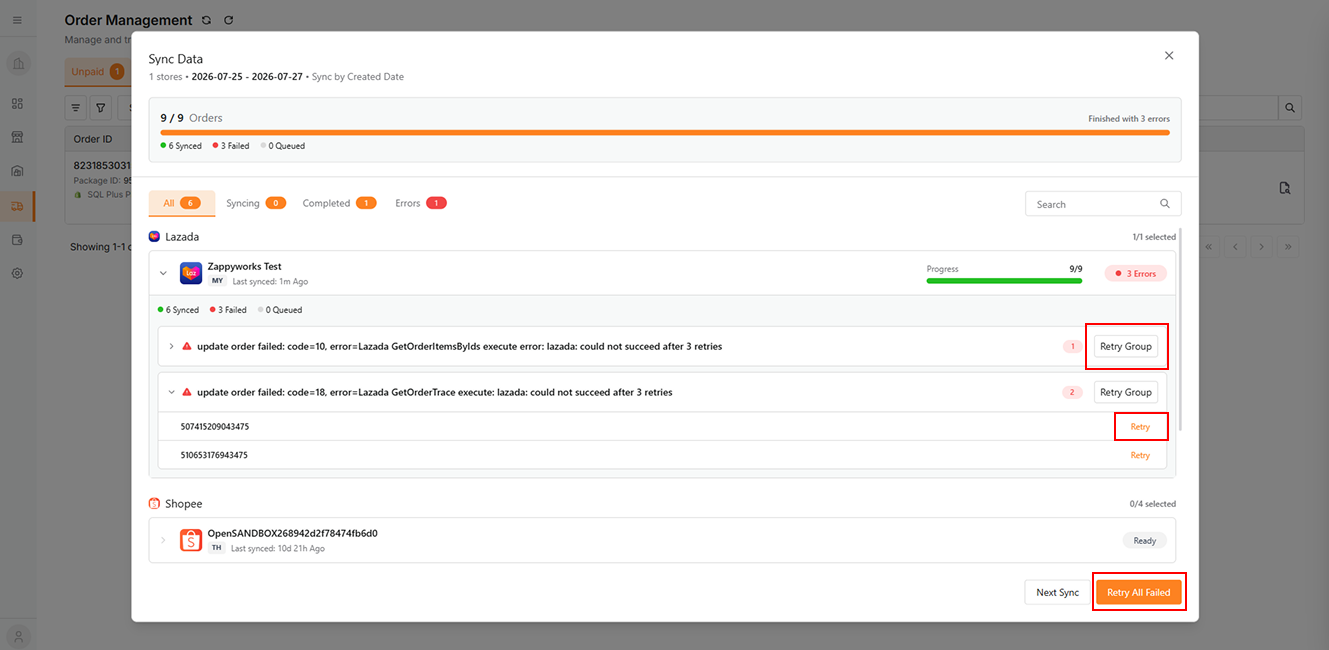
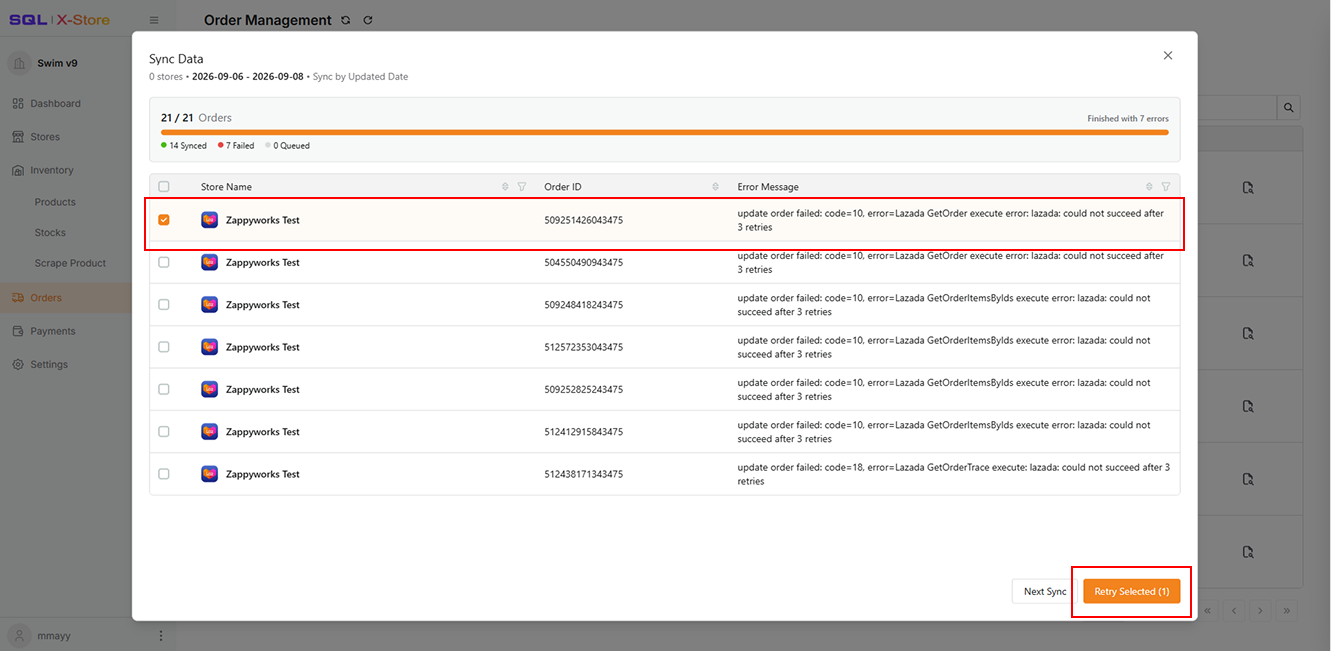
update: update setup documentation and images

diff --git a/docs/integration/xstore/setup.md b/docs/integration/xstore/setup.md
@@ -44,11 +44,13 @@ Connect E-commerce stores to sync **store**, **product**, **order**, and **payme
 
 > 📌 For detailed instructions on linking a store, navigate to **Integration > XStore > [Stores](./stores.md)**
 
+:::info
 **Auto-Sync Behavior**
 
 - After linking, the system **automatically syncs the past 3 days** of product, order, and payment data.
-- Sync actions are locked for **10 minutes** to prevent server overload.
-- After 10 minutes, manual sync becomes available.
+<!-- - Sync actions are locked for **10 minutes** to prevent server overload. -->
+<!-- - After 10 minutes, manual sync becomes available. -->
+:::
 
 ### Step 3: Configure SQL Account Settings
 
@@ -142,7 +144,7 @@ You can manually sync product, order, and payment data using the steps below.
 
     ![product-sidebar](../../../static/img/xstore/setup/product-sidebar.png)
 
-2. Click the **Sync** (**⟲**) icon
+2. Click the **Sync** icon
 
     ![sync-product](../../../static/img/xstore/setup/sync-product.png)
 
@@ -157,13 +159,15 @@ You can manually sync product, order, and payment data using the steps below.
 
     ![product-nextSync](../../../static/img/xstore/setup/product-nextSync.png)
 
-### Sync Order Data
+### Sync Order / Payment Data
 
-1. Click **Orders** in the sidebar
+Order and Payment data are synced together using the same Sync Dialog. The dialog is accessible from both modules.
+
+1. Click **Orders** or **Payments** in the sidebar
 
     ![order-sidebar](../../../static/img/xstore/setup/order-sidebar.png)
 
-2. Click the **Sync** (**⟲**) icon
+2. Click the **Sync** icon
 
     ![sync-order](../../../static/img/xstore/setup/sync-order.png)
 
@@ -171,37 +175,21 @@ You can manually sync product, order, and payment data using the steps below.
 
     ![select-order-sync](../../../static/img/xstore/setup/select-order-sync.png)
 
-    1. Select **Sync Mode** and **Date Range**. You can use **Quick Select** to choose a date range *(defaults to syncing data from the past 3 days)*
-    2. Select the checkboxes to choose stores
-    3. Click **Sync Selected**
-
-### Sync Payment Data
-
-1. Click **Payments** in the sidebar
-
-    ![payment-sidebar](../../../static/img/xstore/setup/payment-sidebar.png)
-
-2. Click the **Sync** (**⟲**) icon.
-
-    ![sync-payment](../../../static/img/xstore/setup/sync-payment.png)
-
-3. A dialog will open:
-
-    ![select-payment-sync](../../../static/img/xstore/setup/select-payment-sync.png)
-
-    1. Select **Sync Mode** and **Date Range**. You can use **Quick Select** to choose a date range *(defaults to syncing data from the past 3 days)*
-    2. Select the checkboxes to choose stores
-    3. Click **Sync Selected**
+    1. Select a **Sync Mode**:
+       - **Sync by Created Date**: sync the orders based on the order creation date
+       - **Sync by Updated Date**: sync the orders based on the order's latest updated date
+    2. Set the **Date Range** for the data you want to sync. Use **Quick Select** to auto-fill common ranges
+    3. Select the checkboxes to choose stores
+    4. Click **Sync Selected** to start the sync
 
 ### Retry Sync
 
 ![retry-fail](../../../static/img/xstore/setup/retry-fail.png)
 
-If any sync operation fails, you can retry it using the following buttons:
+If any sync operation fails, you can retry it by:
 
-1. **Retry**: Retry a single failed order or product
-2. **Retry Group**: Retry a group of orders or products that failed with the same error message
-3. **Retry All Failed**: Retry all failed orders or products
+1. Select the rows that you would like to retry
+2. Click **Retry Selected**
 
 :::warning
    Sync results are retained for 3 hours after syncing and will be automatically deleted afterward.
